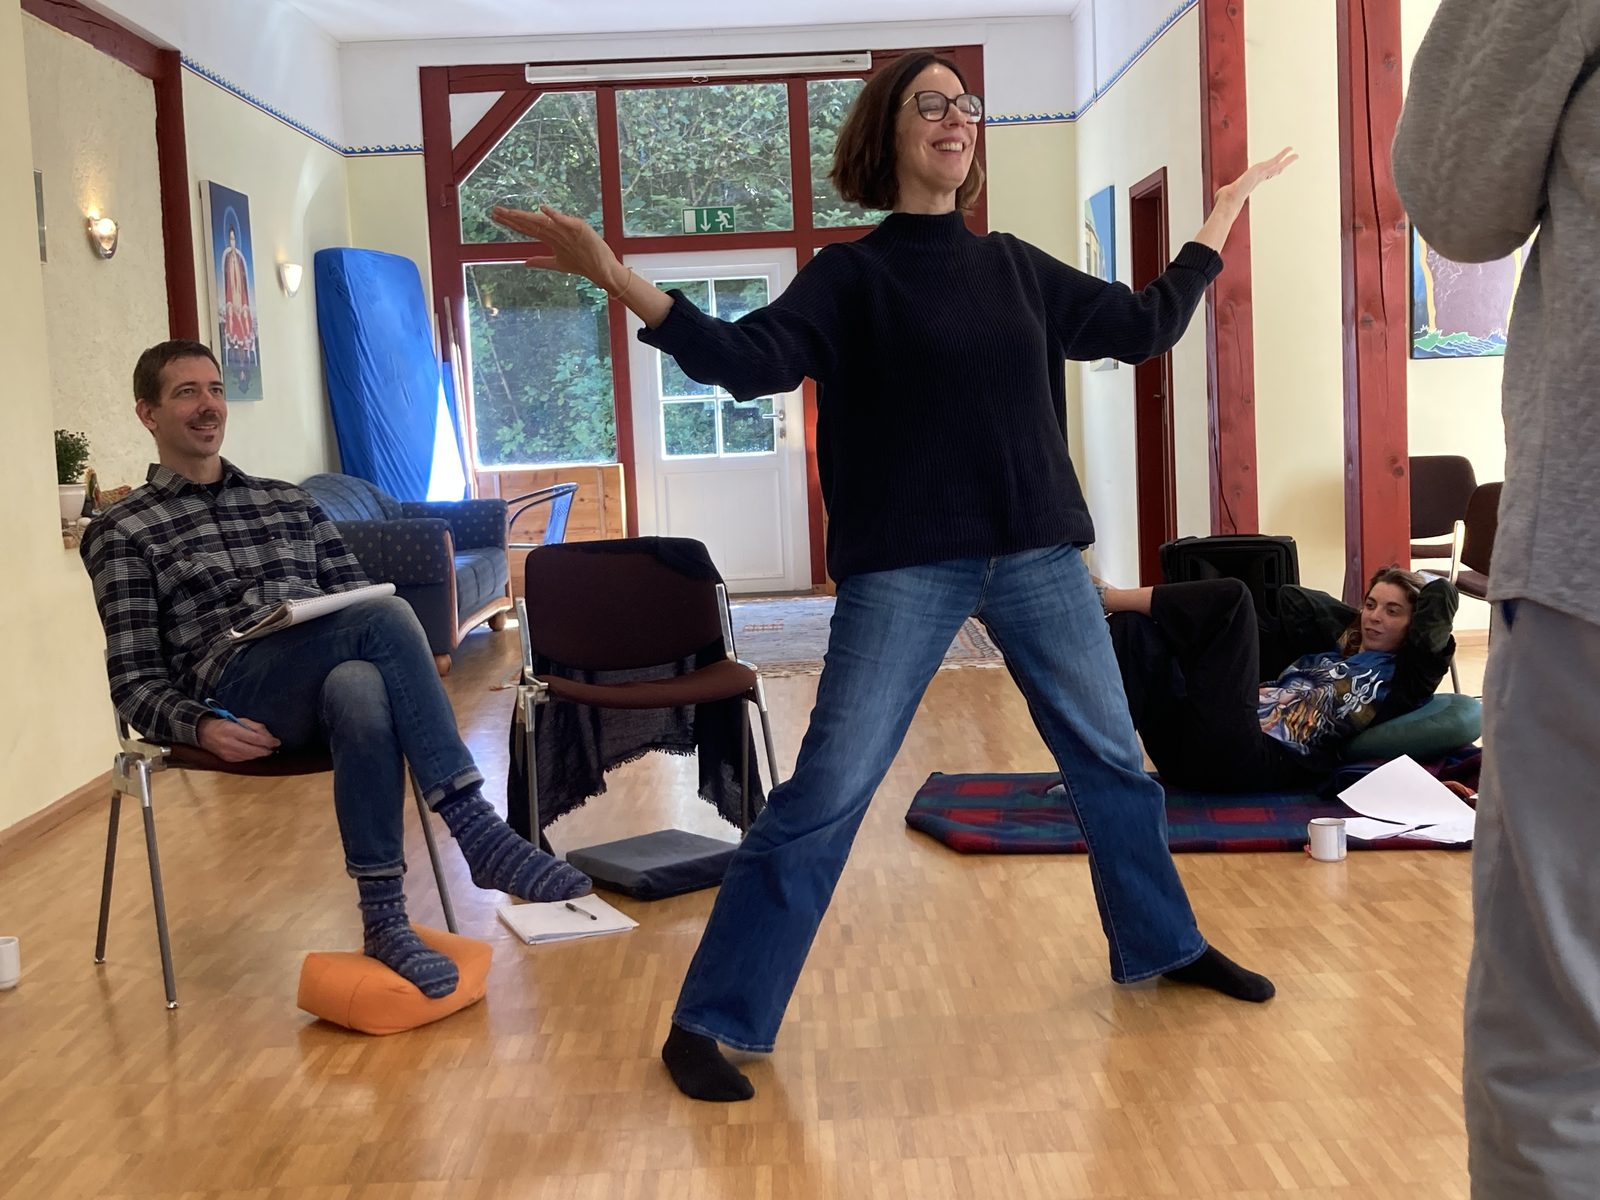
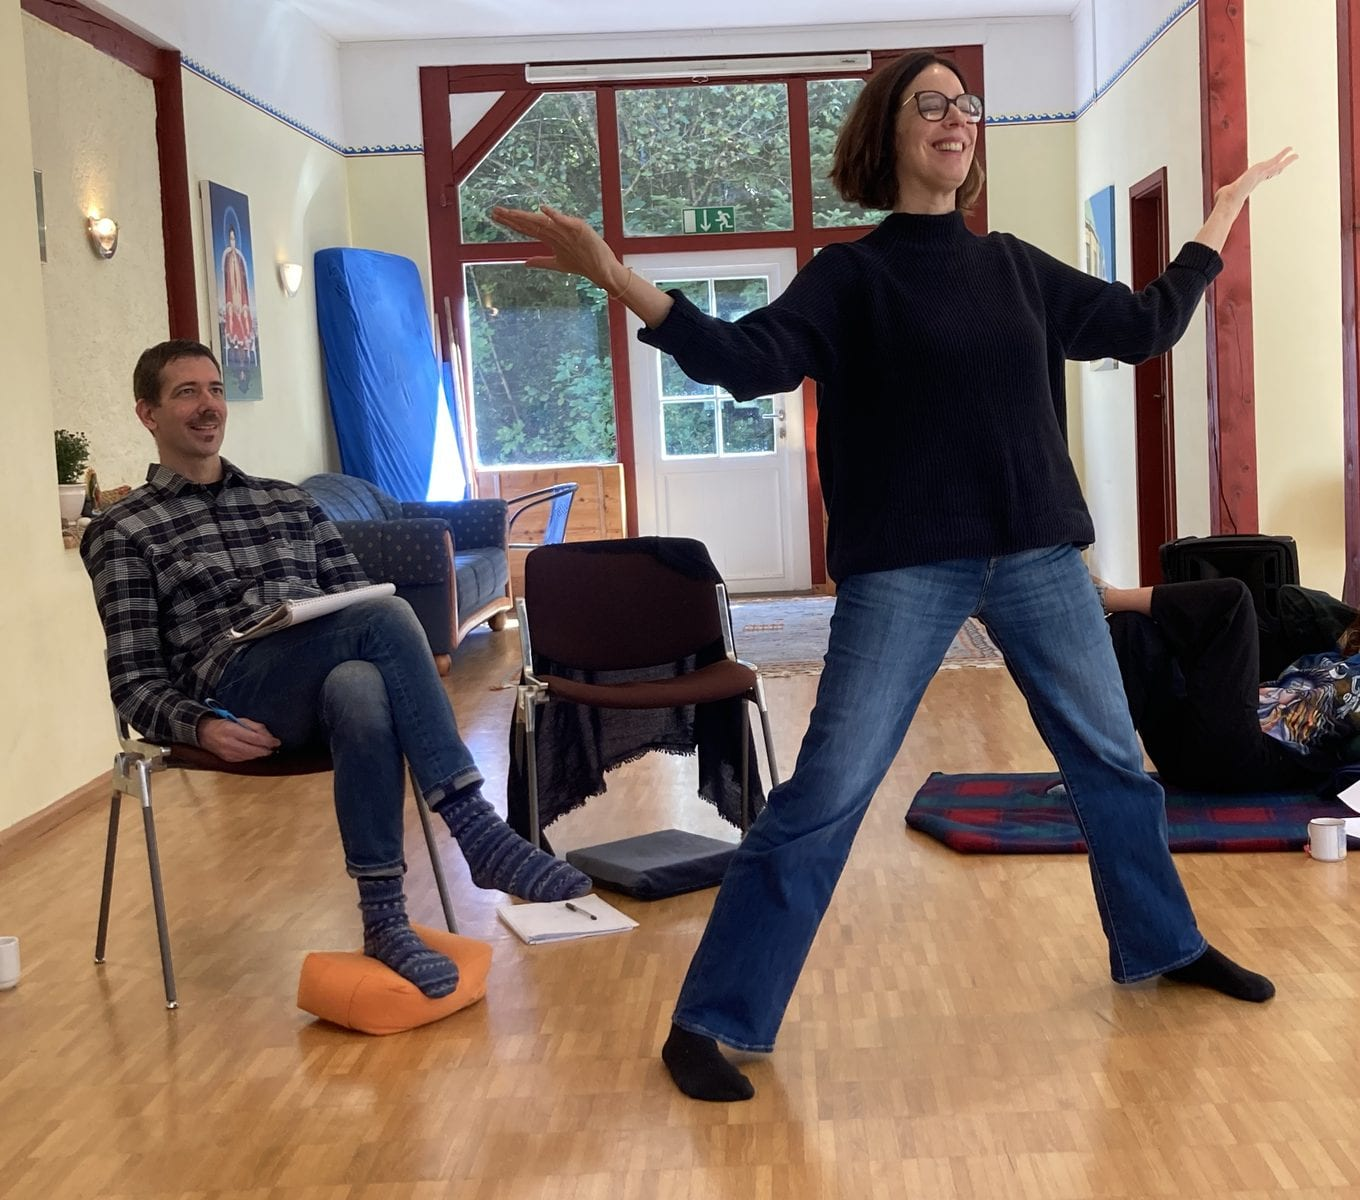
Deploy: Crop the expressive-pose moment so a teacher who asked not to appear is out of frame

diff --git a/curriculum/index.html b/curriculum/index.html
@@ -727,7 +727,7 @@
                                                                         
                                                                                         <p class="text-xs text-[color:var(--c-body)] leading-relaxed">• Models of spiritual development across traditions: comparative and non-dogmatic</p>
                                                                         
-                                                                                        <p class="text-xs text-[color:var(--c-body)] leading-relaxed">�� Spiritual emergence vs. psychological crisis: how to recognise and differentiate</p>
+                                                                                        <p class="text-xs text-[color:var(--c-body)] leading-relaxed">• Spiritual emergence vs. psychological crisis: how to recognise and differentiate</p>
                                                                         
                                                                                         <p class="text-xs text-[color:var(--c-body)] leading-relaxed">• Phenomenology of mystical experiences, “Dark night processes”, and “Ego Death”</p>
                                                                         

diff --git a/index.html b/index.html
@@ -703,7 +703,7 @@
             </picture>
             <picture class="snap-start shrink-0">
                 <source srcset="/transpersonaltraining/assets/images/Community/community-expressive-pose.webp" type="image/webp">
-                <img src="/transpersonaltraining/assets/images/Community/community-expressive-pose.jpg" alt="A participant opening her arms wide during an exercise" class="h-64 md:h-80 w-auto object-cover" width="1600" height="1200" loading="lazy">
+                <img src="/transpersonaltraining/assets/images/Community/community-expressive-pose.jpg" alt="A participant opening her arms wide during an exercise" class="h-64 md:h-80 w-auto object-cover" width="1360" height="1200" loading="lazy">
             </picture>
             <picture class="snap-start shrink-0">
                 <source srcset="/transpersonaltraining/assets/images/Community/community-terrace-rest.webp" type="image/webp">
